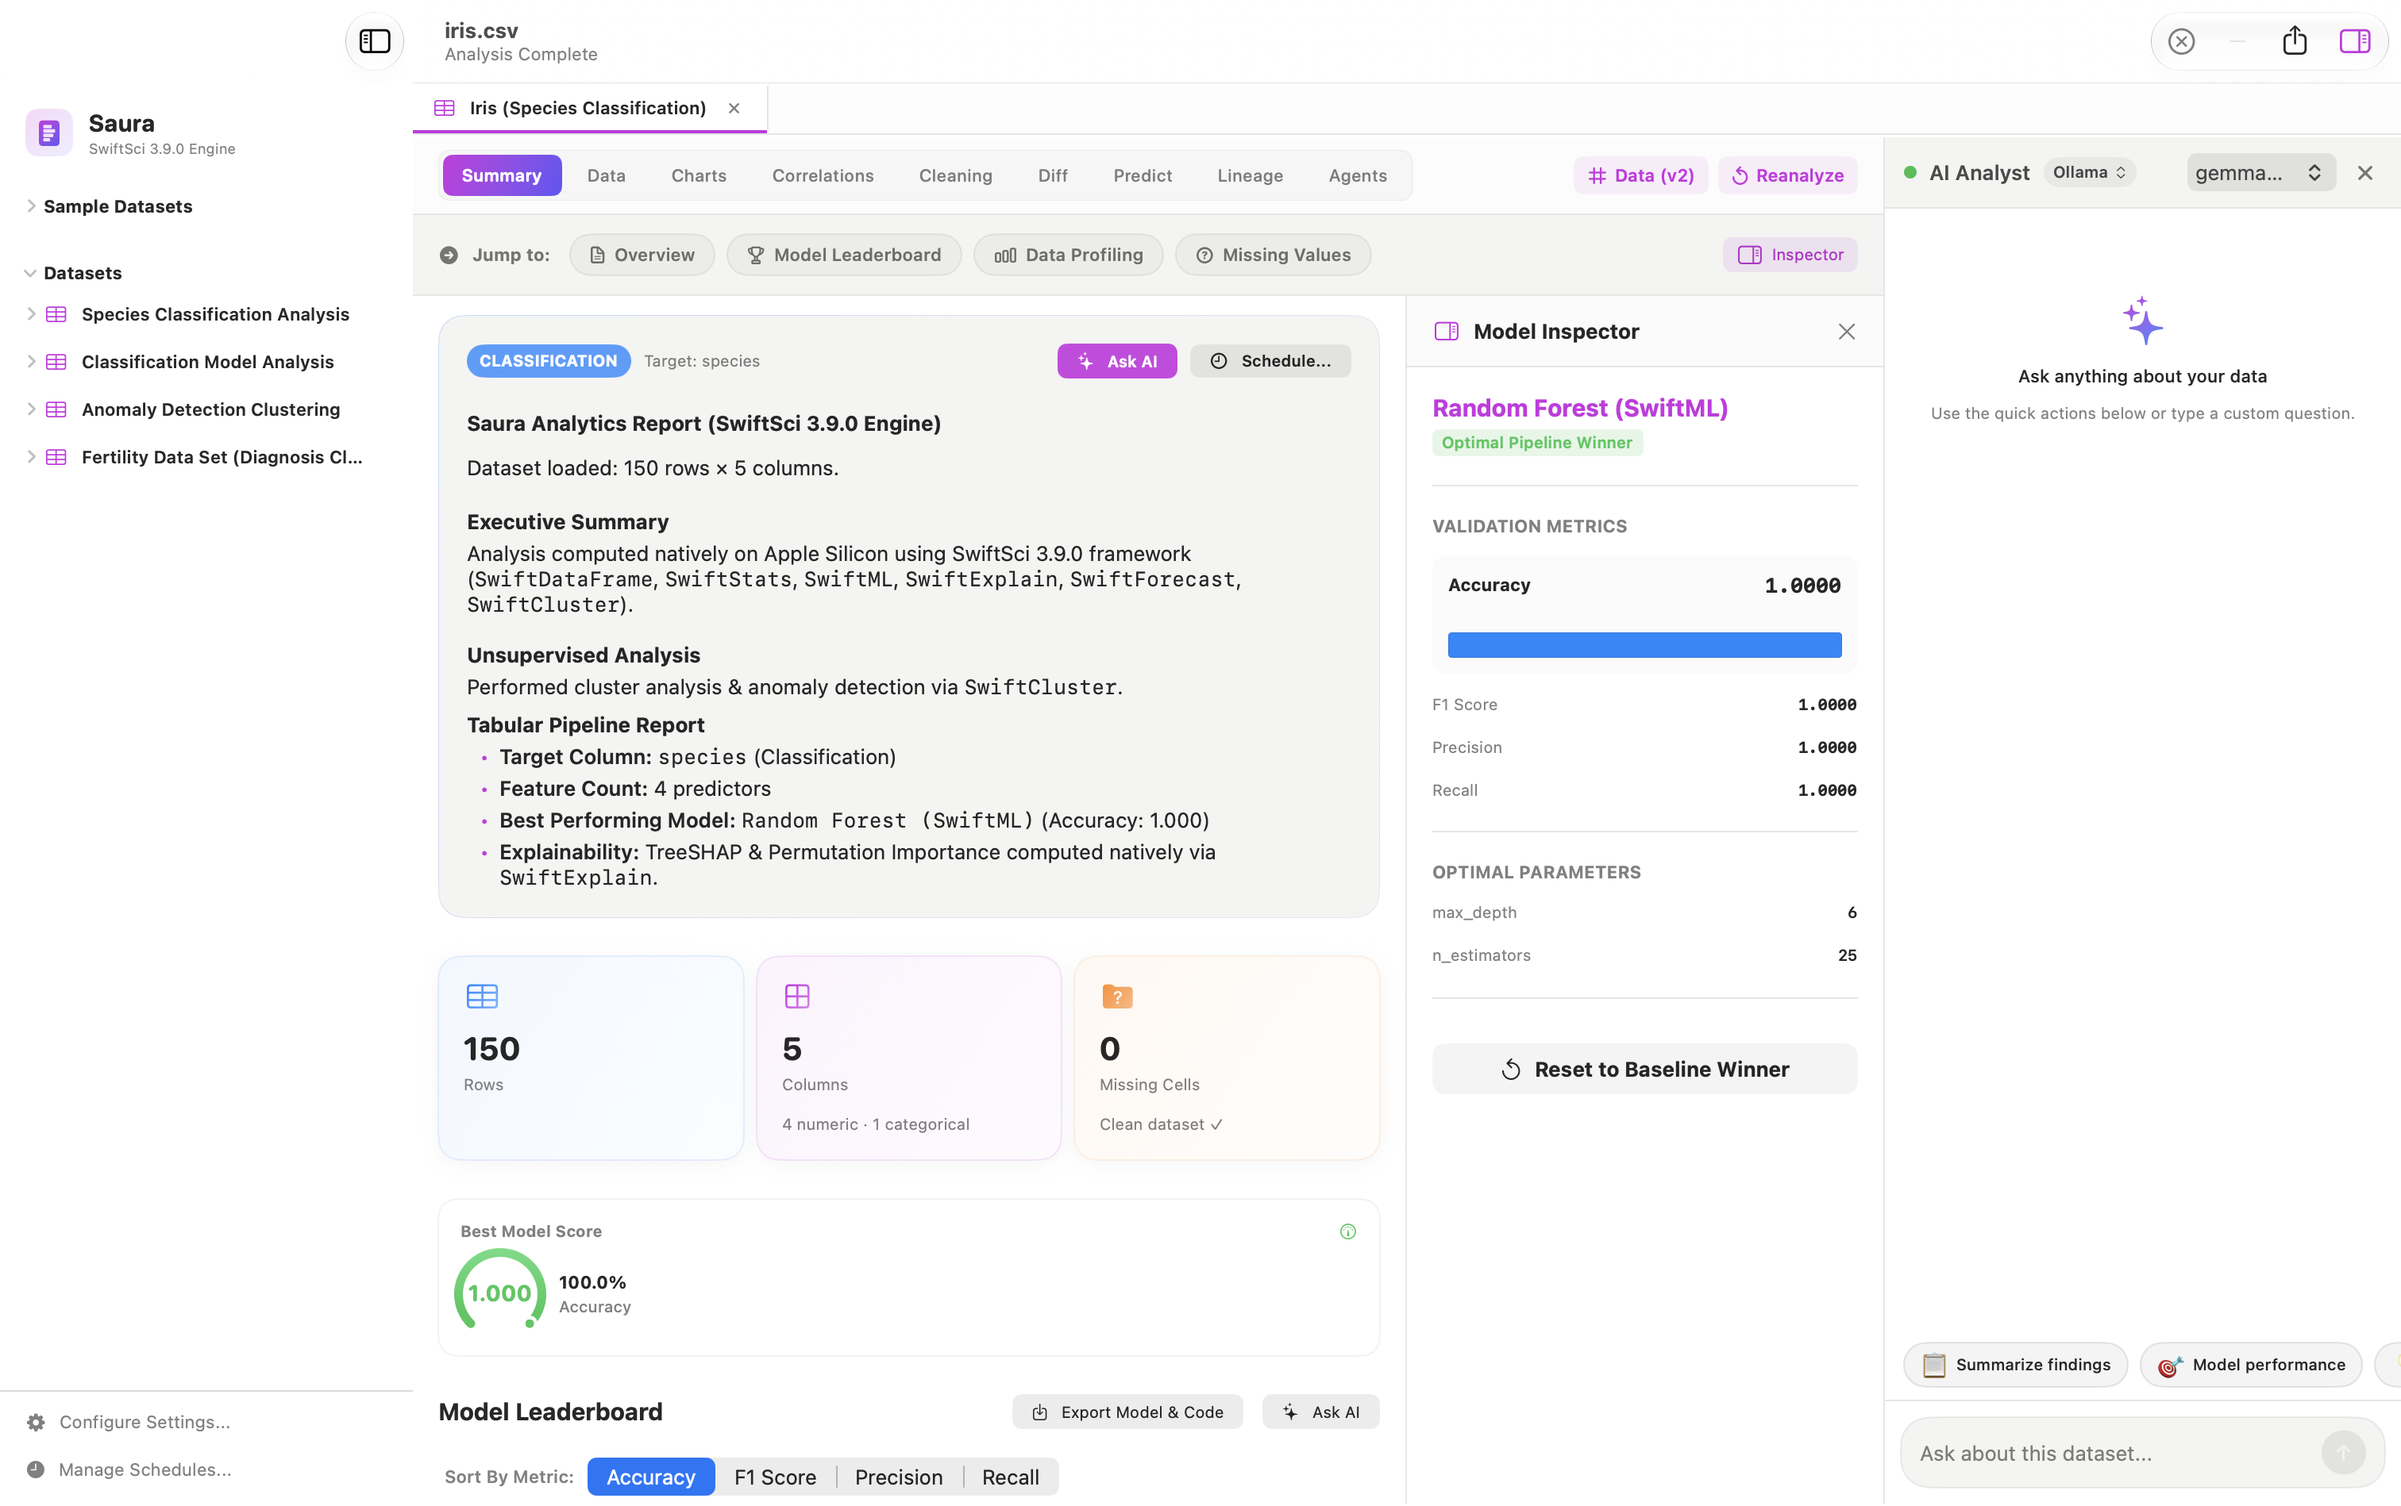
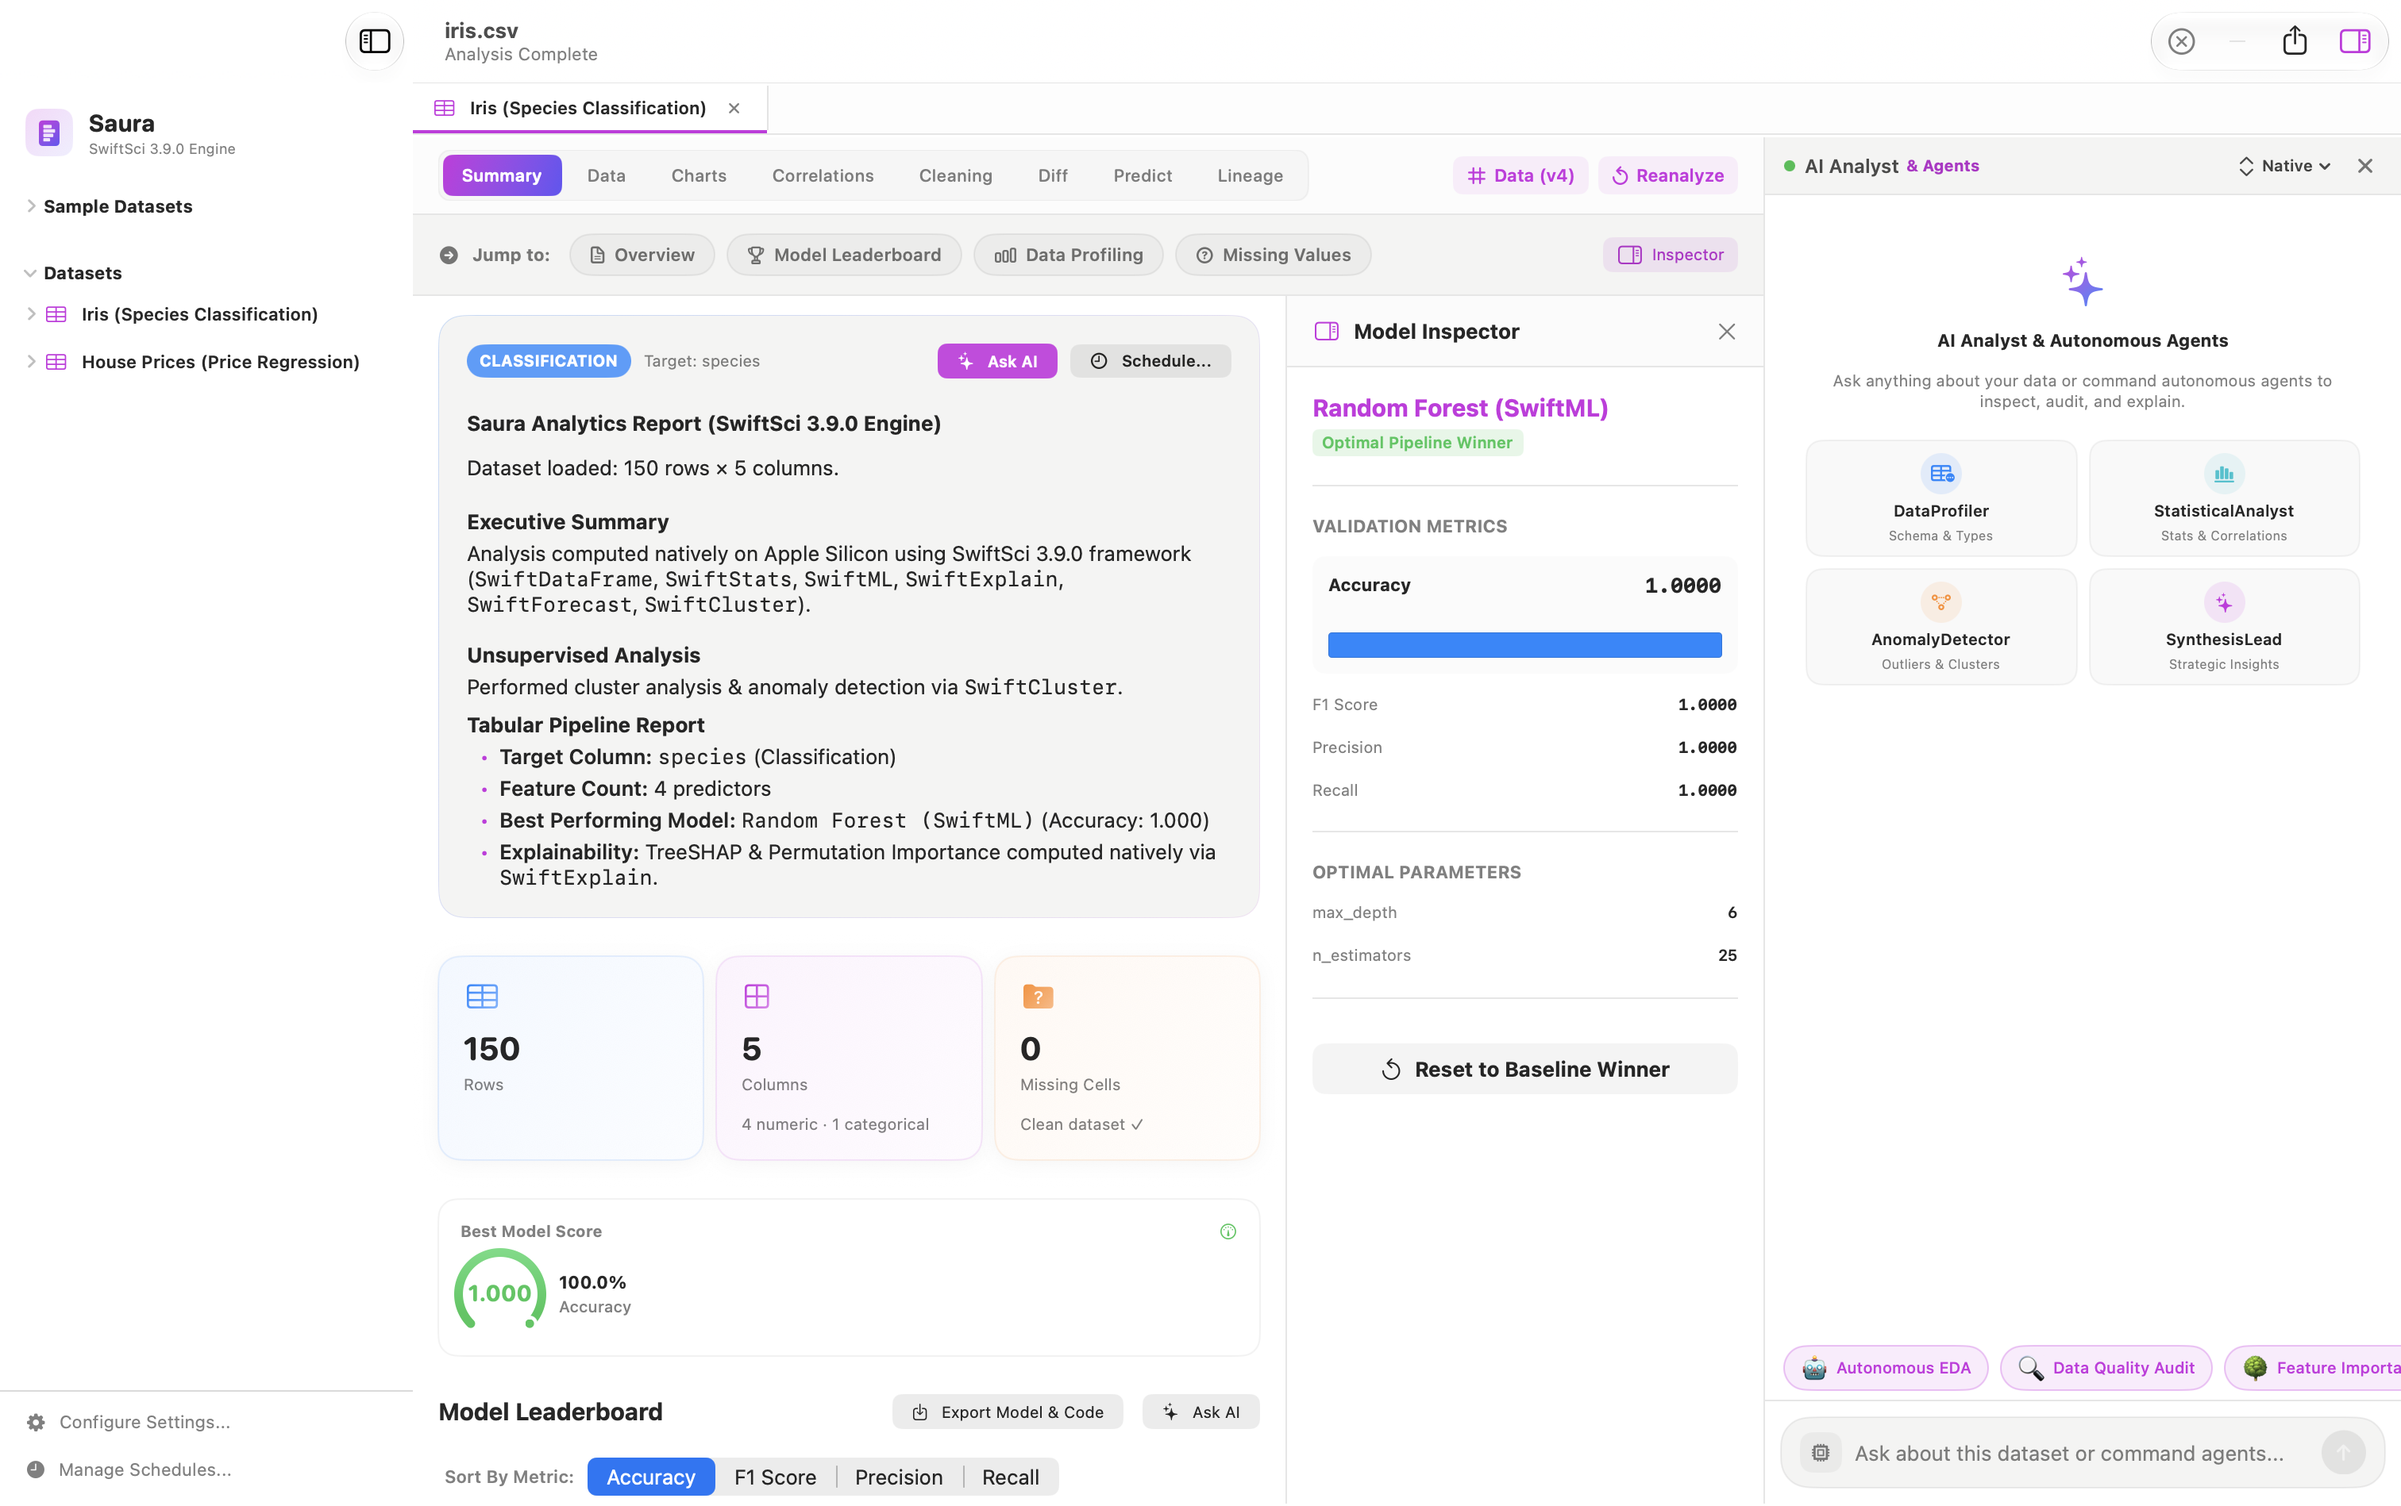
docs: refresh all showcase screenshots (01-08 + 03b t-SNE) and embed in README & WALKTHROUGH

diff --git a/WALKTHROUGH.md b/WALKTHROUGH.md
@@ -95,6 +95,10 @@ Navigate to the **Charts** tab to audit model decisions and understand non-linea
   - Bar charts and Beeswarm plots displaying relative feature weights and TreeSHAP attribution values.
   - Interactive sorting by feature contribution magnitude.
 - **t-SNE 2D Manifold Projection & Smart Drill-Down (SwiftCluster)**:
+  <p align="center">
+    <img src="media/screenshots/03b_tsne_manifold_projection.png" width="95%" alt="t-SNE 2D Manifold Projection" style="border-radius: 10px; box-shadow: 0 8px 24px rgba(0,0,0,0.25);" />
+  </p>
+
   - **Nonlinear Dimensionality Reduction**: Unsupervised 2D projection embedding high-dimensional feature spaces ($N \ge 3$ features) while preserving local topological neighborhoods.
   - **Interactive Perplexity Slider**: Fine-tune cluster compactness on-the-fly (5 to 50) with instant native re-projection via `SwiftCluster`.
   - **Adaptive Target Coloring**: Classification datasets color points by discrete classes; continuous regression targets are automatically partitioned into 4 quartile intervals ($Q_1 \dots Q_4$) for clean, readable legends.
@@ -133,20 +137,53 @@ Switch to the **Data** tab to inspect the raw records underlying the analytical 
 
 ---
 
-## 🤖 Step 7: Local AI Analyst (Ollama / LM Studio)
+## 🧹 Step 7: Interactive Data Cleaning & Time-Travel Lineage
 
-On the right side of the window, the **AI Analyst** panel operates an autonomous **ReAct reasoning loop**:
+Navigate to the **Cleaning** tab to resolve anomalies, perform missing value imputation, and track dataset provenance.
 
-1. **Model Selection**: Switch seamlessly between local runtimes (**Ollama**, **LM Studio**, or **MLX Local**).
-2. **Zero Cloud Egress**: Sensitive enterprise datasets never leave your Mac — prompts and vector contexts are generated and processed 100% locally on Apple Silicon Neural Engine/GPU.
-3. **One-Click Quick Actions**:
-   - `📋 Summarize findings`: Generates an executive narrative of key statistical anomalies.
-   - `🎯 Model performance`: Synthesizes model trade-offs and recommends deployment candidates.
-4. **Natural Language Queries**: Ask custom questions in plain language (e.g., *"Which features have the highest collinearity and might cause leakage?"* or *"Explain why petal_length was chosen as the primary decision split"*).
+<p align="center">
+  <img src="media/screenshots/06_data_cleaning_and_lineage.png" width="95%" alt="Interactive Data Cleaning & Lineage" style="border-radius: 10px; box-shadow: 0 8px 24px rgba(0,0,0,0.25);" />
+</p>
+
+- **Per-Column Transformations**: Apply specialized missing-value imputations (Mean, Median, Constant, Forward-Fill), outlier pruning, and feature encoding.
+- **Audit Lineage**: Reversible time-travel versioning (`Data v1`, `Data v2`, `Data v3`) tracking every modification step for reproducible ML governance.
+- **One-Click Re-analysis**: Immediately trigger a clean pipeline execution with the updated schema.
 
 ---
 
-## 🚀 Step 8: Model Export (Core ML & ONNX)
+## 🔮 Step 8: What-If Predictions & Scenario Simulation
+
+Switch to the **Predict** tab to test hypothetical scenarios and evaluate model predictions in real time.
+
+<p align="center">
+  <img src="media/screenshots/07_what_if_predictions.png" width="95%" alt="What-If Predictions & Feature Inputs" style="border-radius: 10px; box-shadow: 0 8px 24px rgba(0,0,0,0.25);" />
+</p>
+
+- **Interactive Feature Inputs**: Bound sliders and numeric inputs constrained to observed dataset minimum and maximum values.
+- **Instant In-Process Inference**: Zero-latency predictions computed natively by the winning pipeline model (`Random Forest (SwiftML)`).
+- **Batch CSV Inference**: Process bulk unlabelled datasets with instantaneous exported predictions.
+
+---
+
+## 🤖 Step 9: Local AI Analyst & Autonomous Copilot (Ollama / LM Studio)
+
+On the right side of the window, the **AI Analyst** panel operates an autonomous **ReAct multi-agent reasoning loop**:
+
+<p align="center">
+  <img src="media/screenshots/08_ai_analyst_copilot.png" width="95%" alt="Autonomous ReAct AI Analyst Copilot" style="border-radius: 10px; box-shadow: 0 8px 24px rgba(0,0,0,0.25);" />
+</p>
+
+1. **Specialized Multi-Agent Roles**: Direct collaboration between `DataProfiler`, `StatisticalAnalyst`, `AnomalyDetector`, and `SynthesisLead`.
+2. **Model Selection**: Switch seamlessly between local runtimes (**Ollama**, **LM Studio**, or **MLX Local**).
+3. **Zero Cloud Egress**: Sensitive enterprise datasets never leave your Mac — prompts and vector contexts are generated and processed 100% locally on Apple Silicon Neural Engine/GPU.
+4. **One-Click Quick Actions**:
+   - `📋 Summarize findings`: Generates an executive narrative of key statistical anomalies.
+   - `🎯 Model performance`: Synthesizes model trade-offs and recommends deployment candidates.
+5. **Natural Language Queries**: Ask custom questions in plain language (e.g., *"Which features have the highest collinearity and might cause leakage?"* or *"Explain why petal_length was chosen as the primary decision split"*).
+
+---
+
+## 🚀 Step 10: Model Export (Core ML & ONNX)
 
 Once satisfied with a winning model from the AutoML pipeline:
 1. Click **Export Model & Code** on the Summary tab.

diff --git a/README.md b/README.md
@@ -90,10 +90,20 @@ Source code is maintained in the dedicated code repository: [Nodibell/Saura](htt
 | <img src="media/screenshots/01_data_preview_and_setup.png" width="100%" alt="Data Preview & Schema Checklist" /> | <img src="media/screenshots/03_charts_distribution.png" width="100%" alt="Charts & Explainability" /> |
 | *Streaming dataset preview, schema verification & column stats* | *PDP & ICE curves, SwiftExplain feature importance* |
 
-| 🔥 Pearson Feature Correlation Matrix | 📑 High-Performance Data Inspector |
+| 🌌 t-SNE 2D Manifold Projection | 🔥 Pearson Feature Correlation Matrix |
 | :---: | :---: |
-| <img src="media/screenshots/04_correlation_matrix.png" width="100%" alt="Correlation Matrix & Top Correlations" /> | <img src="media/screenshots/05_data_inspector.png" width="100%" alt="Data Inspector Table" /> |
-| *Interactive correlation heatmap & top ranked feature pairs* | *Virtual scrolling table supporting massive datasets* |
+| <img src="media/screenshots/03b_tsne_manifold_projection.png" width="100%" alt="t-SNE 2D Manifold Projection" /> | <img src="media/screenshots/04_correlation_matrix.png" width="100%" alt="Correlation Matrix & Top Correlations" /> |
+| *Interactive perplexity tuning, pinned class coloring & drill-down* | *Interactive correlation heatmap & top ranked feature pairs* |
+
+| 📑 High-Performance Data Inspector | 🧹 Data Cleaning & Time-Travel Lineage |
+| :---: | :---: |
+| <img src="media/screenshots/05_data_inspector.png" width="100%" alt="Data Inspector Table" /> | <img src="media/screenshots/06_data_cleaning_and_lineage.png" width="100%" alt="Data Cleaning & Lineage" /> |
+| *Virtual scrolling table supporting massive datasets* | *Missing value imputation, outlier pruning & version audit* |
+
+| 🔮 Interactive What-If Predictions | 🤖 Autonomous ReAct AI Analyst Copilot |
+| :---: | :---: |
+| <img src="media/screenshots/07_what_if_predictions.png" width="100%" alt="What-If Predictions & Feature Sliders" /> | <img src="media/screenshots/08_ai_analyst_copilot.png" width="100%" alt="Local AI Analyst & Multi-Agent Copilot" /> |
+| *Real-time inference sliders & counterfactual scenario simulator* | *Local multi-agent copilot powered by Ollama / LM Studio* |
 
 ---
 
